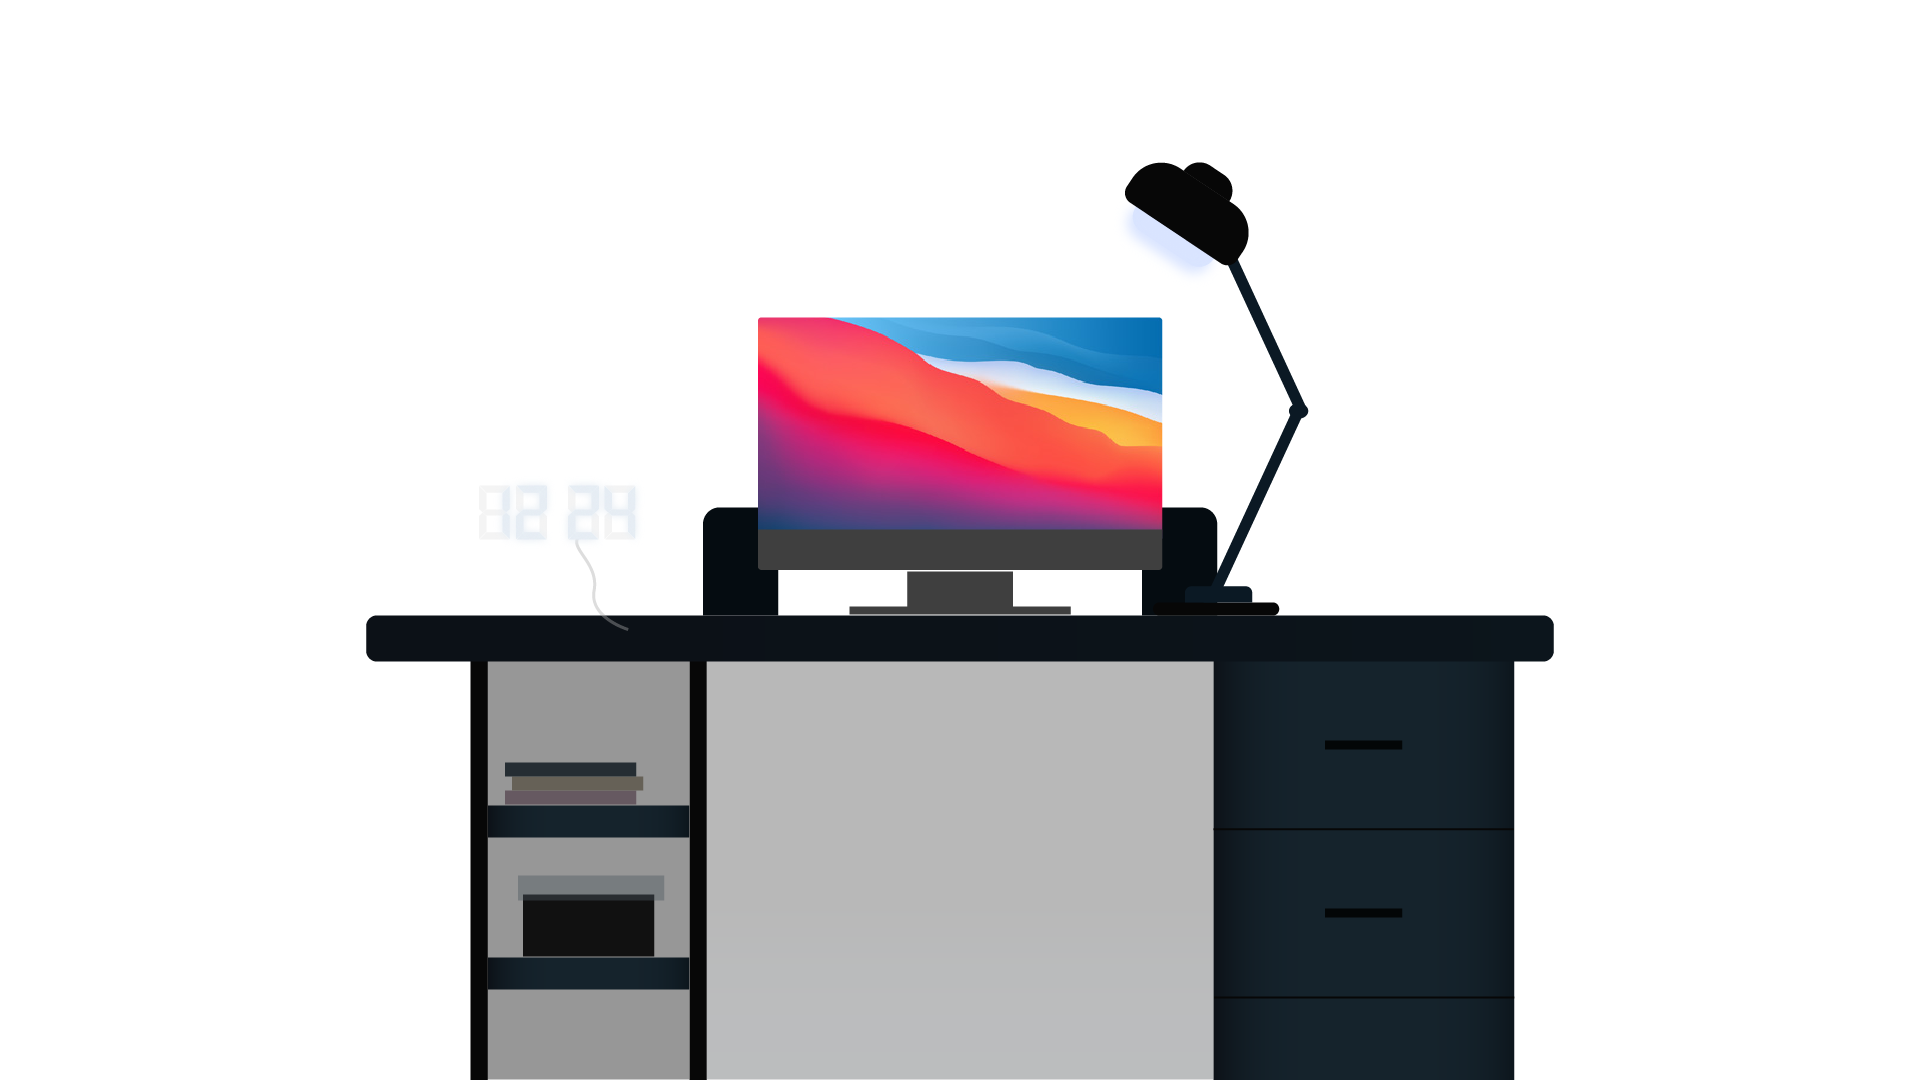
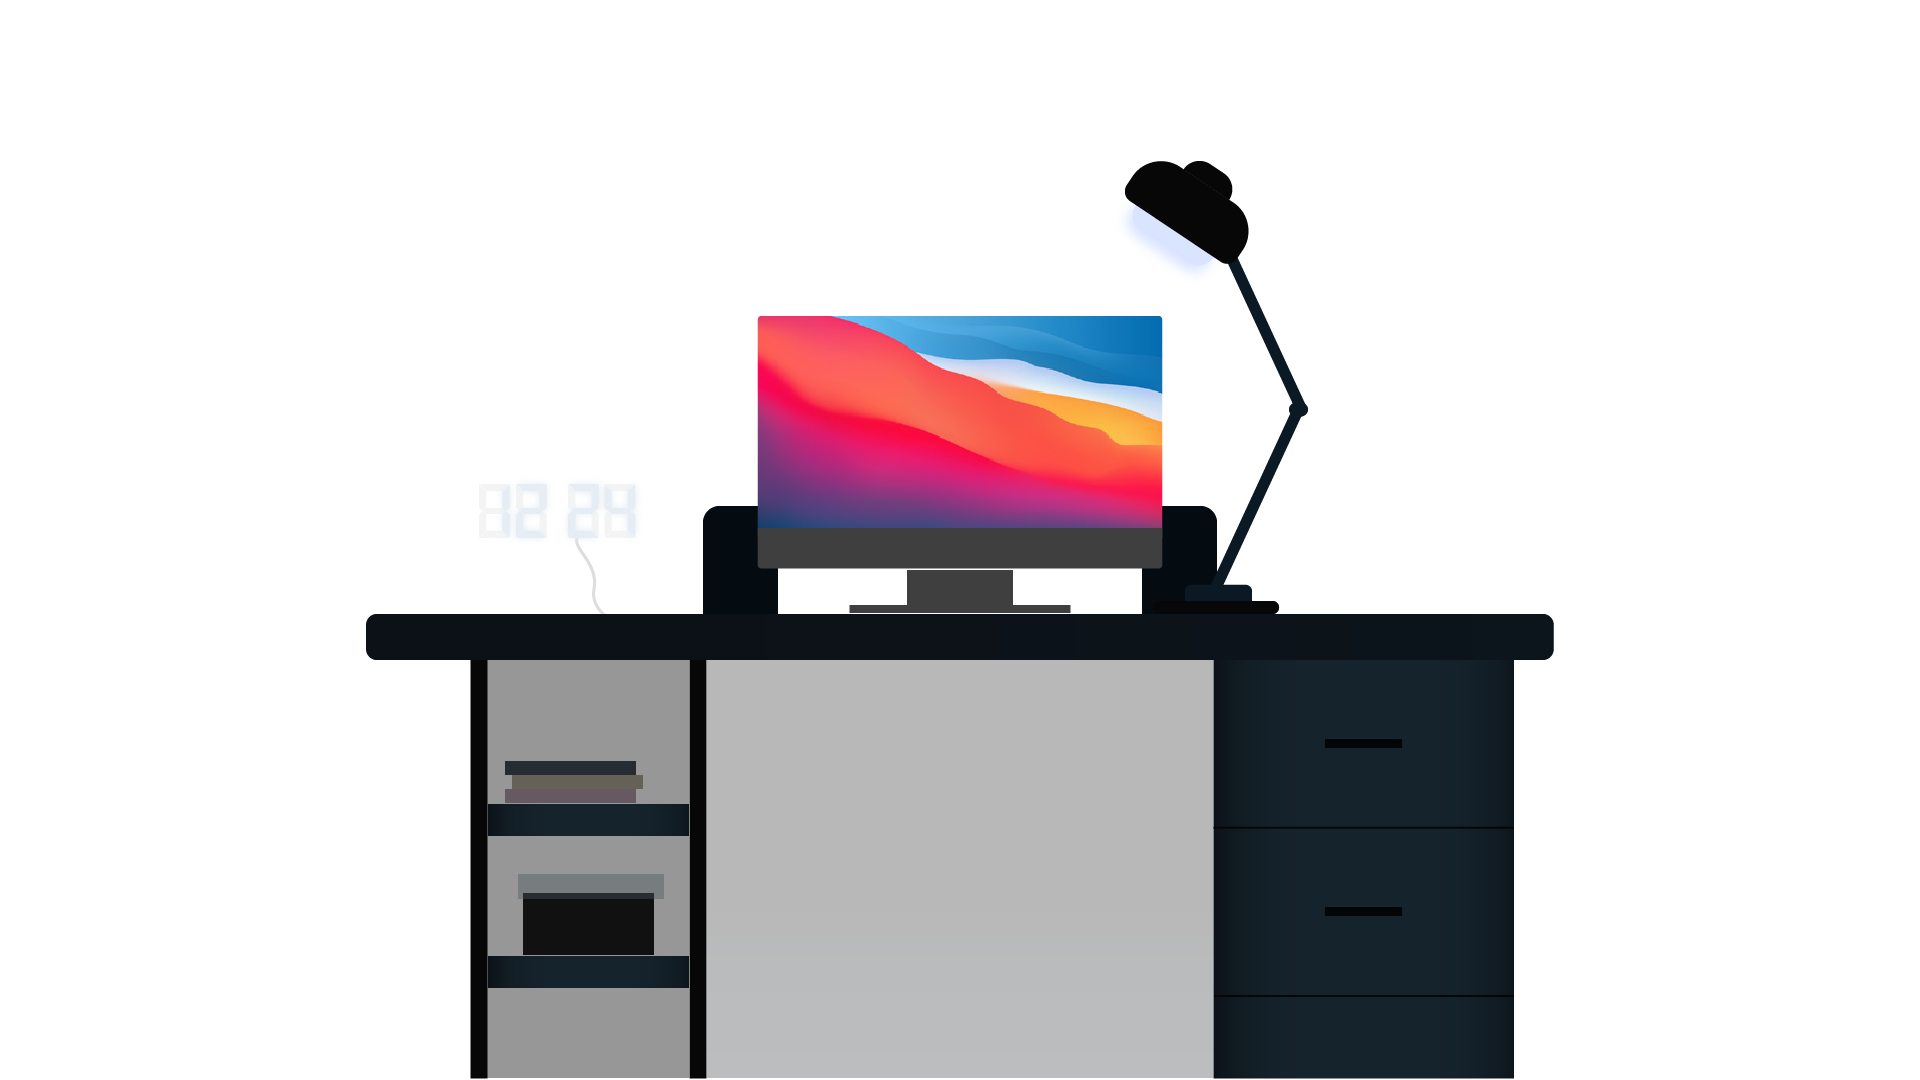
[update] 시계 책상 뒤로 가도록 수정 검정색 fg : 3/4 --> 다 보이도록 수정 완ㄹ 패럴렉스는 어느정도 끝났다

diff --git a/Exhibition_Page/page2/js/page2.js b/Exhibition_Page/page2/js/page2.js
@@ -40,9 +40,9 @@ function scrollFunc(e){
     bgInterior.style.transform = "translate3d(0px ," + scrollTop * .35 +"px , 0px)";
     com.style.transform = "translate3d(0px ," + scrollTop * .45 +"px , 0px)";
     comLight.style.transform = "translate3d(0px ," + scrollTop * .47 +"px , 0px)";
-    comChair.style.transform = "translate3d(0px ," + scrollTop * .45 +"px , 0px)";
+    comChair.style.transform = "translate3d(0px ," + scrollTop * .43 +"px , 0px)";
     fgMoonlight.style.transform = "translate3d(0px ," + scrollTop * .55 +"px , 0px);"
-    fg.style.transform = "translate3d(0px ," + scrollTop * .12 +"px , 0px)";
+    fg.style.transform = "translate3d(0px ," + scrollTop * 1.55 +"px , 0px)";
 }
 
 function stageResize() {        //per를 위한 함수 (document랑 window height값)
